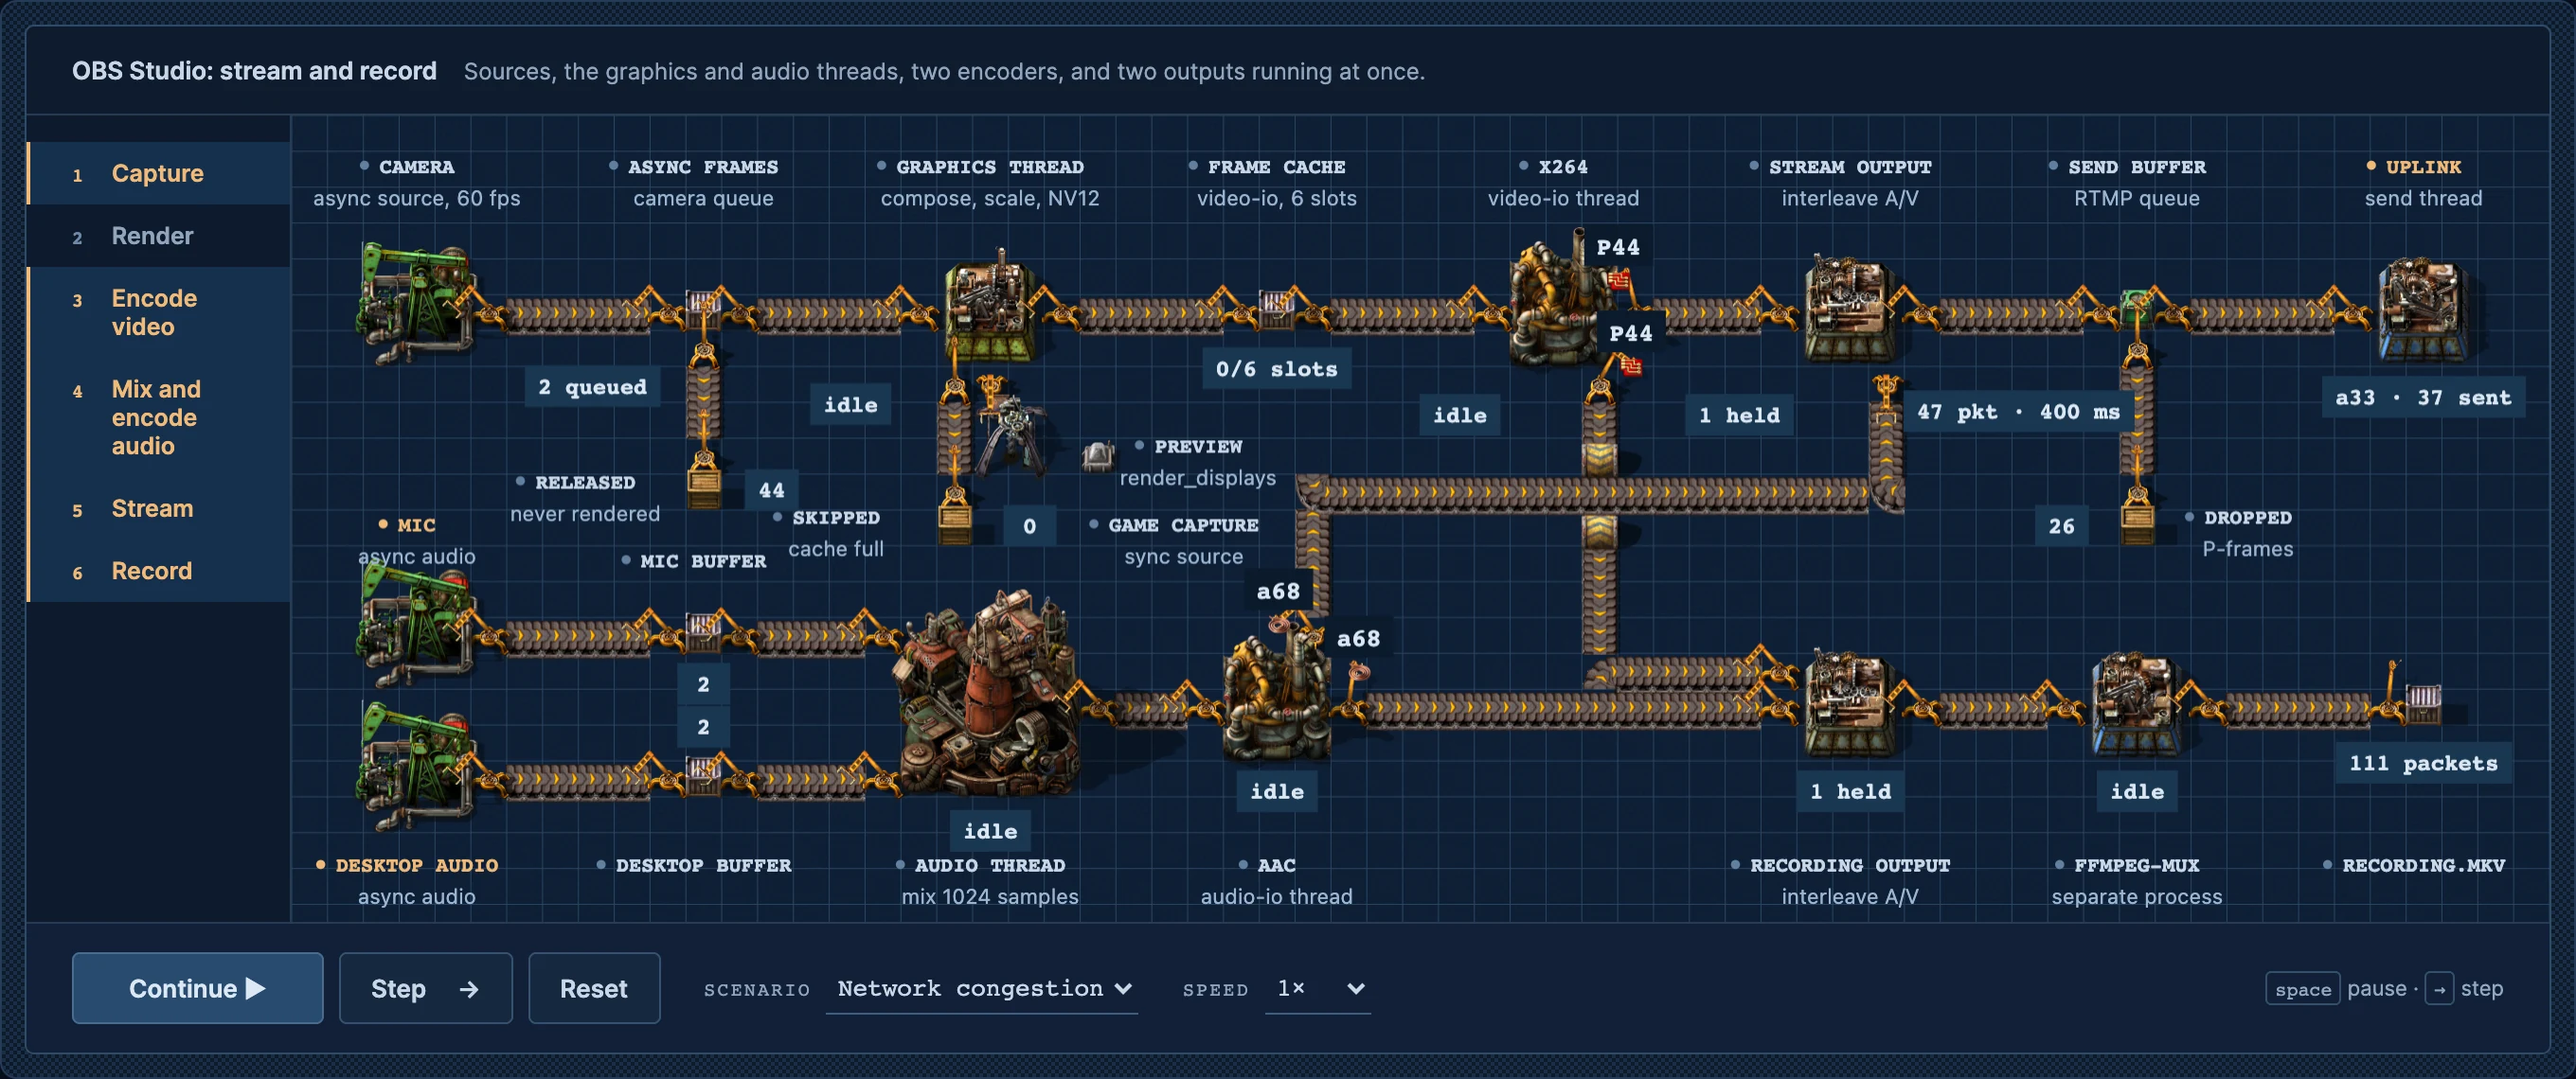
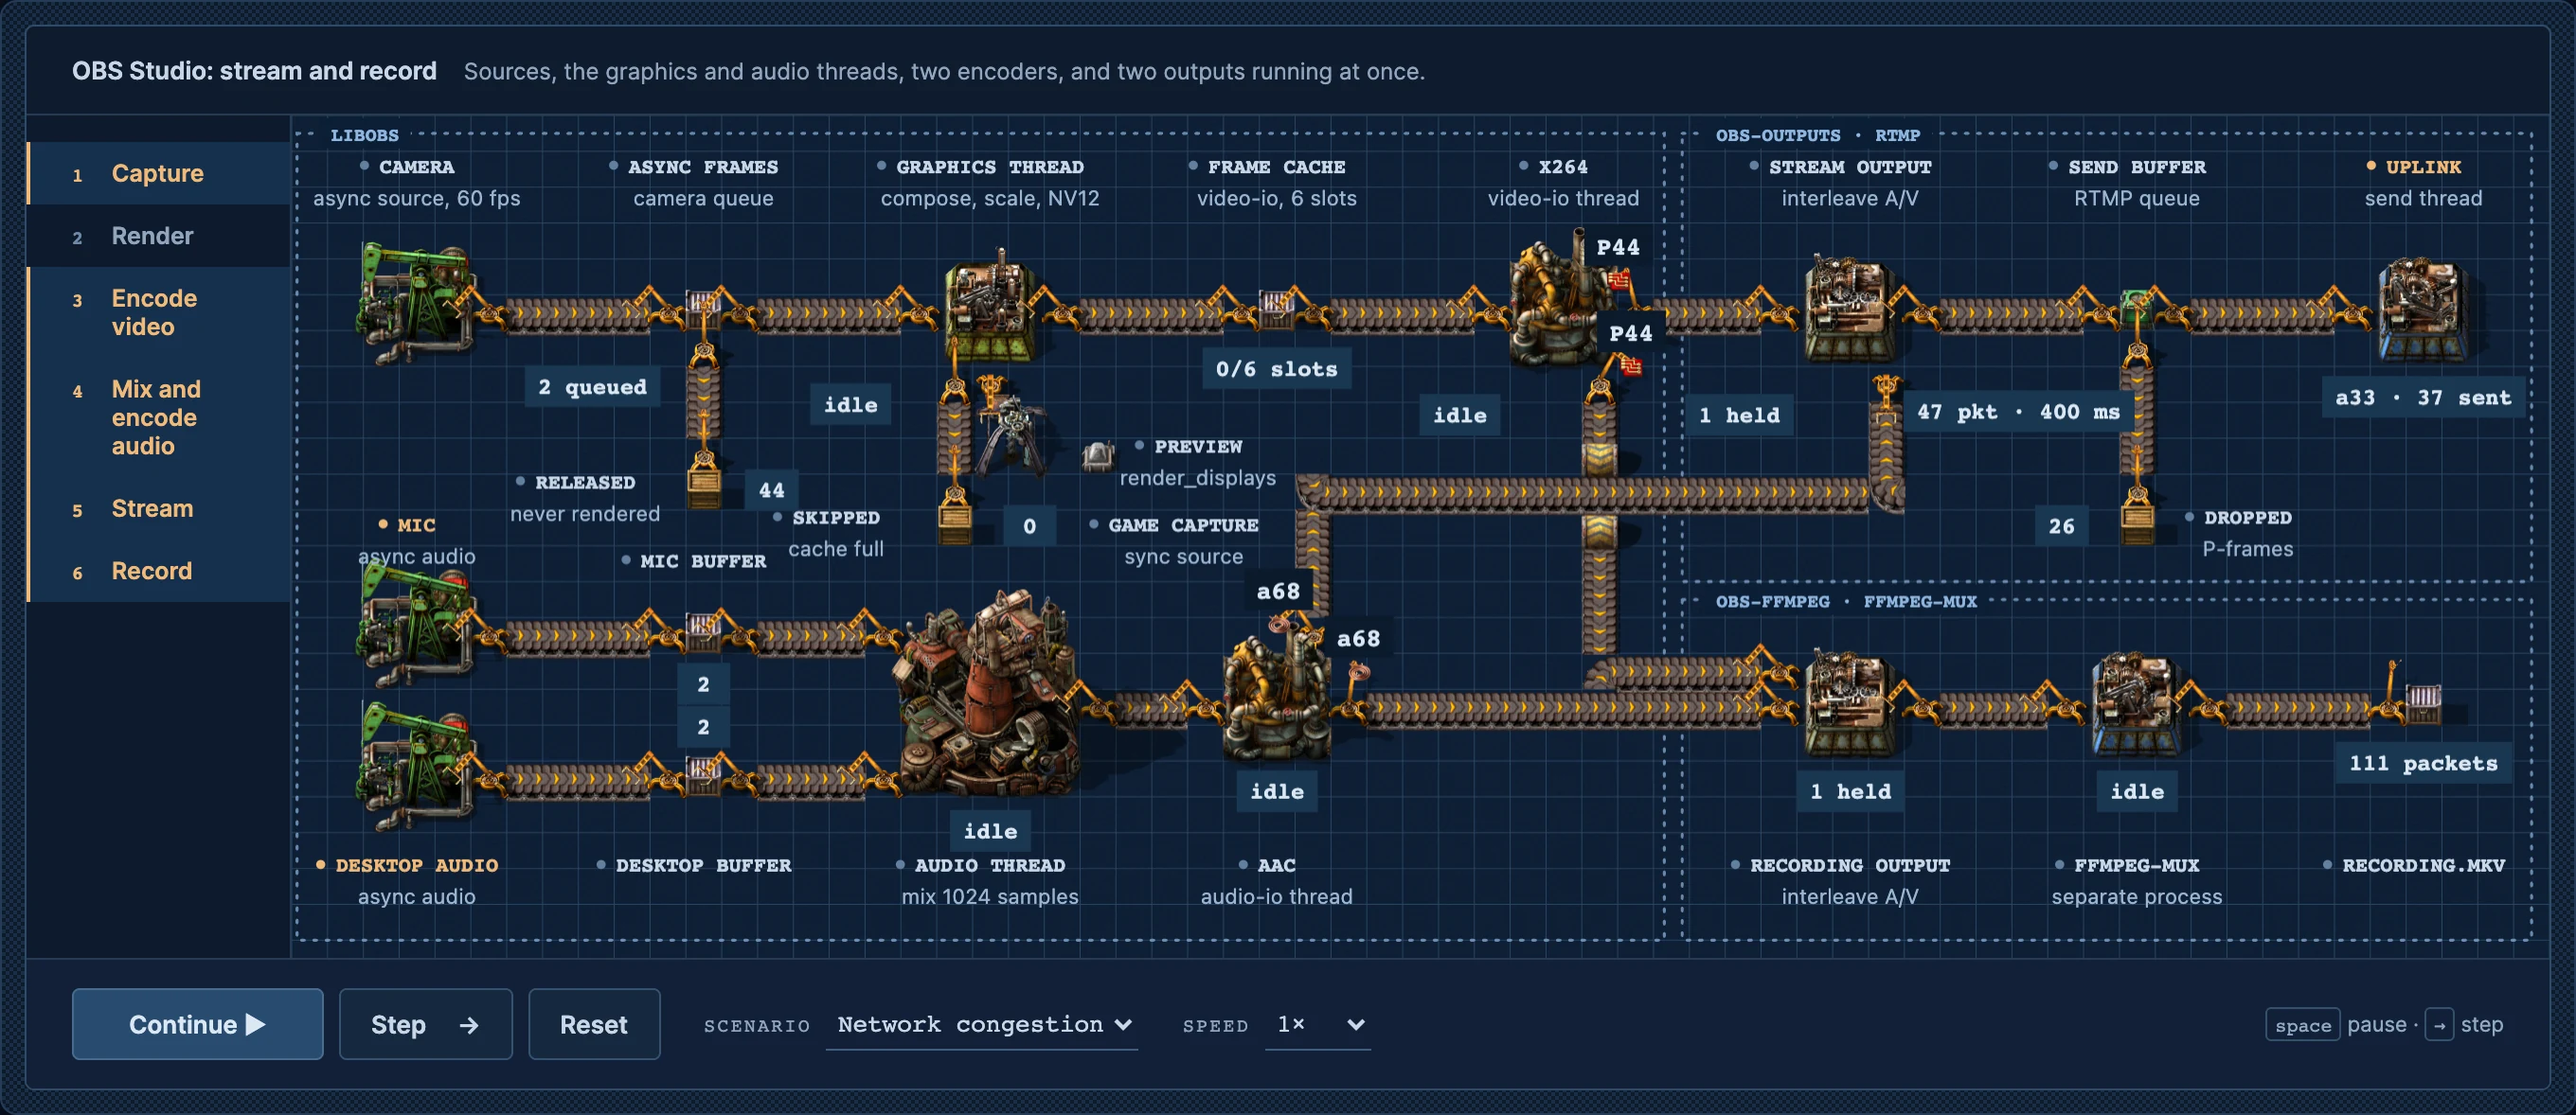
Draw dotted areas around the major parts of a system

diff --git a/SKILL.md b/SKILL.md
@@ -48,6 +48,13 @@ same time. They do not become stages of one line. Use a single line only when th
 program really is one path. Smaller examples are fine for data values, frame
 counts or time scale. They are not fine for structure.
 
+When the system has several major parts, such as a web frontend, a worker and a
+database, or an outside service like GitHub, draw each part as a dotted area with
+its name, using `areas` in the layout. Keep every station of a part inside its
+area, give each area its own rectangle, and let belts and wires cross area edges
+where data passes between parts. Lay the stations out by part first, then route
+the belts between them.
+
 Record omissions in the figure's reference table, each with a reason. A core data
 path is never an omission: no audio in a media pipeline, no writes in a database,
 no second output when the system feeds several. Before you build, ask what an

diff --git a/references/kit.md b/references/kit.md
@@ -39,6 +39,11 @@ transport planner continues to place adjacent, standard-reach inserters.
 
 Optional `labelX`, `labelY`, `readoutX`, and `readoutY` place annotations in tile
 coordinates. `labelPlate` adds an opaque backing, sized to the text, where a label crosses a belt.
+A layout's optional `areas: [{label, x, y, width, height}]` draws each major part
+of a system as a dotted rectangle in tile coordinates, under the belts and
+machines, with its name on the top edge. `labelEdge: 'left'` runs the name down the
+left edge instead, for phone layouts that turn the desktop layout sideways. Give
+the phone layout its own rectangles; a plain transpose rarely clears its labels.
 The floor is transparent over a dark CSS material; Canvas draws the tile grid.
 
 `kit/transport.mjs` exports `connectStations`, `connectLayout`, `swing`, and

diff --git a/references/design.md b/references/design.md
@@ -29,6 +29,12 @@ with `#183454`, the active sidebar color, and set its labels in `#dbe7f4` at 600
 Run that fill from frame edge to frame edge: the table takes the full width and
 its first and last cells carry the inset.
 
+Areas that mark the major parts of a system use a dotted 1.6 px line in
+`rgba(143, 181, 222, .7)` with round dots 5 px apart, and the part's name in
+uppercase 10 px mono `#8fb5de` on a floor-colored plate across the top edge. Keep
+half a tile between neighboring areas, and keep every label and readout of a part
+inside its area.
+
 Header text, sidebar headings, the first control, and table text all start on one
 left edge, the `--inset` variable: 24 px on desktop and 16 px on phones. Set every
 horizontal padding inside the workbench from it instead of picking a number per

diff --git a/CHANGELOG.md b/CHANGELOG.md
@@ -4,6 +4,10 @@ All notable changes to Factory are recorded here. The format follows [Keep a Cha
 
 ## [Unreleased]
 
+### Added
+
+- `areas` in a scene layout draw dotted, named rectangles around the major parts of a system. The skill uses them for multi-part figures, and the OBS example marks libobs, the RTMP output and the ffmpeg-mux recording process.
+
 ### Changed
 
 - Reference tables are plain tables: a filled header row, thin dividers between rows and roomier cells, over the same frame and textured floor, without the tile grid.

diff --git a/references/verification.md b/references/verification.md
@@ -52,3 +52,5 @@ Check scope against the architecture inventory before polishing. Every inventory
 entry is drawn, or it appears in the reference table's omissions with a reason.
 Confirm that no core data path is missing, that independent threads run in
 parallel lanes, and that every fan-out or fan-in in the code appears in the scene.
+In a system with several major parts, check that each part has its own dotted
+area and that no station, label or readout sits across an area's edge.
